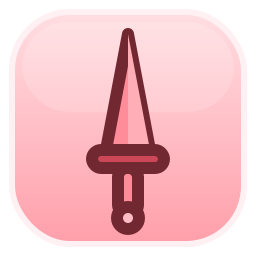
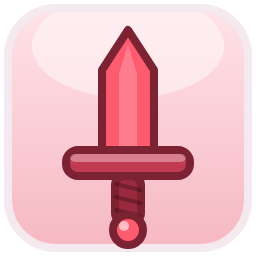
ウォリアー刷新：カノンのキットを移植（ブロック2／斬撃スキル・必殺技／新アイコン）
- ブロック数 1→2
- 通常攻撃は全近接共通の剣の一閃（既存）
- スキル「聖剣技 天蓋連牙」：目の前に大斬撃×4（連撃キューで時間差・判定大）
- 必殺技「天牙煉斬閃」：一列に飛ぶ貫通斬撃×5（飛翔斬撃を新規実装）
- 必殺技専用の技名表示に対応（ultName）
- アイコンを太い赤い剣に刷新（作風に合わせて新規描画）

飛翔斬撃の貫通・連撃・技名表示を実機検証済み（列の敵8体貫通など）、エラーなし。

https://claude.ai/code/session_01T6SEHk1vPyTS5B3duMrct6

diff --git a/index.html b/index.html
@@ -1073,8 +1073,9 @@ const TYPES={
     skill:{name:"シールドバッシュ",spMax:8,dur:8,dr:0.10,smash:3,smashMul:2.6,knockback:0.5,
            ultDr:0.30,ultShield:700}},
   attacker:{name:"ウォリアー",role:"ATTACK",letter:"A",color:"#ff5b6e",place:"road",cost:13,
-    hp:780,atk:230,interval:1.0,block:1,kind:"melee",targets:"ground",
-    skill:{name:"乱れ撃ち",spMax:14,dur:6,atk:1.8,spd:1.6}},
+    hp:780,atk:230,interval:1.0,block:2,kind:"melee",targets:"ground",
+    skill:{name:"聖剣技 天蓋連牙",spMax:9,dur:0.5,frontSlash:{n:4,mul:0.9,r:1.7,gap:0.1},
+           ultName:"天牙煉斬閃",ultFlySlash:{n:5,mul:1.2,r:0.55,spd:560,life:0.7}}},
   shooter:{name:"レンジャー",role:"SHOOT",letter:"S",color:"#3fc7f4",place:"hill",cost:11,
     hp:360,atk:140,interval:0.85,block:0,range:3.6,kind:"range",targets:"both",
     skill:{name:"必中狙撃",spMax:15,dur:7,atk:2.2,spd:1.3}},
@@ -2090,6 +2091,14 @@ function fireSkill(u){
   skillActivate(u,false);
   return true;
 }
+// スキルが発動時に固有の一撃を持つか（汎用ボーナスを抑制する判定に使用）
+function hasCustomActivate(sk){ return !!(sk && (sk.smash||sk.frontSlash||sk.ultFlySlash)); }
+// 攻撃の「前方」向き＝最も進んだ射程内の敵の方向（無ければ右）
+function forwardAngle(u,R){
+  let ang=0,best=-1,found=false;
+  for(const en of G.enemies){ if(en.hp>0&&canHit(u,en)&&dist(en,u)<=R){ if(en.progress>best){best=en.progress;ang=Math.atan2(en.y-u.y,en.x-u.x);found=true;} } }
+  return {ang,found};
+}
 // スキル/必殺技 発動時の一撃系効果（キャラ固有）。isUlt=必殺技なら威力増し
 function skillActivate(u,isUlt){
   const sk=u.cfg.skill; if(!sk)return;
@@ -2104,6 +2113,27 @@ function skillActivate(u,isUlt){
     addFx({type:"ring",x:u.x,y:u.y,r:R,col:u.cfg.color,life:0.4});
     Sound.play("melee");
   }
+  // 必殺技：一列に飛ぶ斬撃×n（カノン 天牙煉斬閃）
+  if(isUlt && sk.ultFlySlash){ doFlySlash(u,sk.ultFlySlash); return; }
+  // スキル：目の前に大斬撃×n（カノン 天蓋連牙）。連撃キューで時間差発生
+  if(sk.frontSlash){ const f=sk.frontSlash; u.combo={left:f.n,t:0,gap:f.gap,mul:f.mul*(isUlt?ULT_POW:1),r:f.r}; }
+}
+// 目の前への大斬撃1回（連撃キューから呼ばれる）
+function frontSlashHit(u,mul,rTiles){
+  const R=rTiles*TILE, dmg=statATK(u.cfg,u.type)*mul*(u.atkBuff||1);
+  const fa=forwardAngle(u,R+TILE);
+  for(const en of G.enemies){ if(en.hp>0 && canHit(u,en) && dist(en,u)<=R) hurtEnemy(en,dmg,u.cfg.color,u); }
+  addFx({type:"swordslash",x:u.x,y:u.y,ang:fa.found?fa.ang:0,r:R*0.7,col:u.cfg.color,life:0.26,wide:true});
+  Sound.play("melee");
+}
+// 一列に飛ぶ斬撃（貫通する飛翔斬撃をn枚、前方へ放つ）
+function doFlySlash(u,f){
+  const fa=forwardAngle(u,99*TILE); const ang=fa.found?fa.ang:0;
+  const dx=Math.cos(ang),dy=Math.sin(ang), dmg=statATK(u.cfg,u.type)*f.mul*(u.atkBuff||1);
+  for(let i=0;i<f.n;i++){
+    G.shots.push({fly:true,x:u.x-dx*i*22,y:u.y-dy*i*22,dirx:dx,diry:dy,spd:f.spd,life:f.life,dmg,col:u.cfg.color,owner:u,r:f.r*TILE,hit:new Set()});
+  }
+  addFx({type:"skill",x:u.x,y:u.y,col:u.cfg.color,life:0.6}); Sound.play("skill");
 }
 // ===== 必殺技（ULT）：スキルの強化版を手動発動。リバースのBLADEよりやや溜まりづらい =====
 const ULT_GAUGE=24, ULT_POW=1.5, ULT_DUR=1.7;
@@ -2118,13 +2148,13 @@ function fireUlt(u){
   if(sk.ultShield){ u.shield=Math.max(u.shield||0,sk.ultShield); u.shieldMax=Math.max(u.shieldMax||0,u.shield); }
   // 一撃ボーナス：攻撃役は周囲に炸裂ダメージ（固有スマッシュ持ちは除く）／回復役は全員回復
   const atk=statATK(u.cfg,u.type);
-  if(atk>0 && !sk.smash){ const R=2.6*TILE, dmg=atk*4*(u.atkBuff||1);
+  if(atk>0 && !hasCustomActivate(sk)){ const R=2.6*TILE, dmg=atk*4*(u.atkBuff||1);
     for(const en of G.enemies){ if(en.hp>0 && dist(en,u)<=R && canHit(u,en)){ hurtEnemy(en,dmg,"#fff",u); en.stun=Math.max(en.stun||0,0.4); } }
     addFx({type:"ring",x:u.x,y:u.y,r:R,col:u.cfg.color,life:0.5});
   }
   if(u.cfg.heal){ const h=statHEAL(u.cfg,u.type)*3; for(const a of G.units){ if(a!==u&&a.hp<a.maxHp&&dist(u,a)<=unitRange(u)*1.3){ a.hp=Math.min(a.maxHp,a.hp+h); addFx({type:"heal",x:a.x,y:a.y,life:0.5}); } } }
   addFx({type:"skill",x:u.x,y:u.y,col:u.cfg.color,life:0.9});
-  ultCallout(u.cfg.name, sk.name);
+  ultCallout(u.cfg.name, sk.ultName||sk.name);
   Sound.play("skill");
   return true;
 }
@@ -2251,6 +2281,8 @@ function update(dt){
       if(u.sp<sk.spMax) u.sp=Math.min(sk.spMax,u.sp+dt*(u.artSkill||1)); // 満タンで待機（自動/手動で発動）
     }
     if(!u.isToken) u.ug=Math.min(ULT_GAUGE,(u.ug||0)+dt); // 必殺技ゲージ（updateはwave時のみ走るため戦闘中だけ充填）
+    // 連撃キュー（天蓋連牙など、目の前への大斬撃を時間差で繰り出す）
+    if(u.combo){ u.combo.t-=dt; if(u.combo.t<=0 && u.combo.left>0){ frontSlashHit(u,u.combo.mul,u.combo.r); u.combo.left--; u.combo.t=u.combo.gap; if(u.combo.left<=0)u.combo=null; } }
   }
 
   // --- オーラ初期化（サポート） ---
@@ -2594,6 +2626,17 @@ function update(dt){
 
   // --- 弾 ---
   for(const s of G.shots){
+    // 飛翔斬撃：固定方向に進み、通過した敵を貫通して斬る
+    if(s.fly){
+      s.x+=s.dirx*s.spd*dt; s.y+=s.diry*s.spd*dt; s.life-=dt;
+      for(const en of G.enemies){ if(en._dead||en.hp<=0||s.hit.has(en))continue;
+        if(canHit(s.owner,en) && dist(s,en)<=s.r+(en.e?en.e.r:12)){
+          hurtEnemy(en,s.dmg,s.col,s.owner); s.hit.add(en);
+          addFx({type:"swordslash",x:en.x,y:en.y,ang:Math.atan2(s.diry,s.dirx),r:TILE*0.55,col:s.col,life:0.16});
+        } }
+      if(s.life<=0)s._dead=true;
+      continue;
+    }
     if(!s.target||s.target._dead){s._dead=true;continue;}
     if(s.enemy && !G.units.includes(s.target)){s._dead=true;continue;} // 撤退済みの味方狙い弾は消滅
     const reach = s.enemy ? 16 : (s.target.e?s.target.e.r:14);
@@ -2862,6 +2905,17 @@ function draw(){
 
   // 弾(下層)
   for(const s of G.shots){
+    if(s.fly){
+      // 飛翔斬撃：進行方向に弧を描く刃
+      const a=Math.atan2(s.diry,s.dirx);
+      ctx.save();ctx.translate(s.x,s.y);ctx.rotate(a);ctx.lineCap="round";
+      ctx.strokeStyle=hexA(s.col,0.7);ctx.lineWidth=7;
+      ctx.beginPath();ctx.arc(0,0,13,-0.85,0.85);ctx.stroke();
+      ctx.strokeStyle="rgba(255,255,255,.95)";ctx.lineWidth=2.5;
+      ctx.beginPath();ctx.arc(0,0,13,-0.85,0.85);ctx.stroke();
+      ctx.restore();ctx.lineCap="butt";
+      continue;
+    }
     ctx.strokeStyle=s.col;ctx.lineWidth=s.kind==="aoe"?3:2;
     const a=Math.atan2(s.target.y-s.y,s.target.x-s.x);
     ctx.beginPath();ctx.moveTo(s.x,s.y);ctx.lineTo(s.x-Math.cos(a)*10,s.y-Math.sin(a)*10);ctx.stroke();